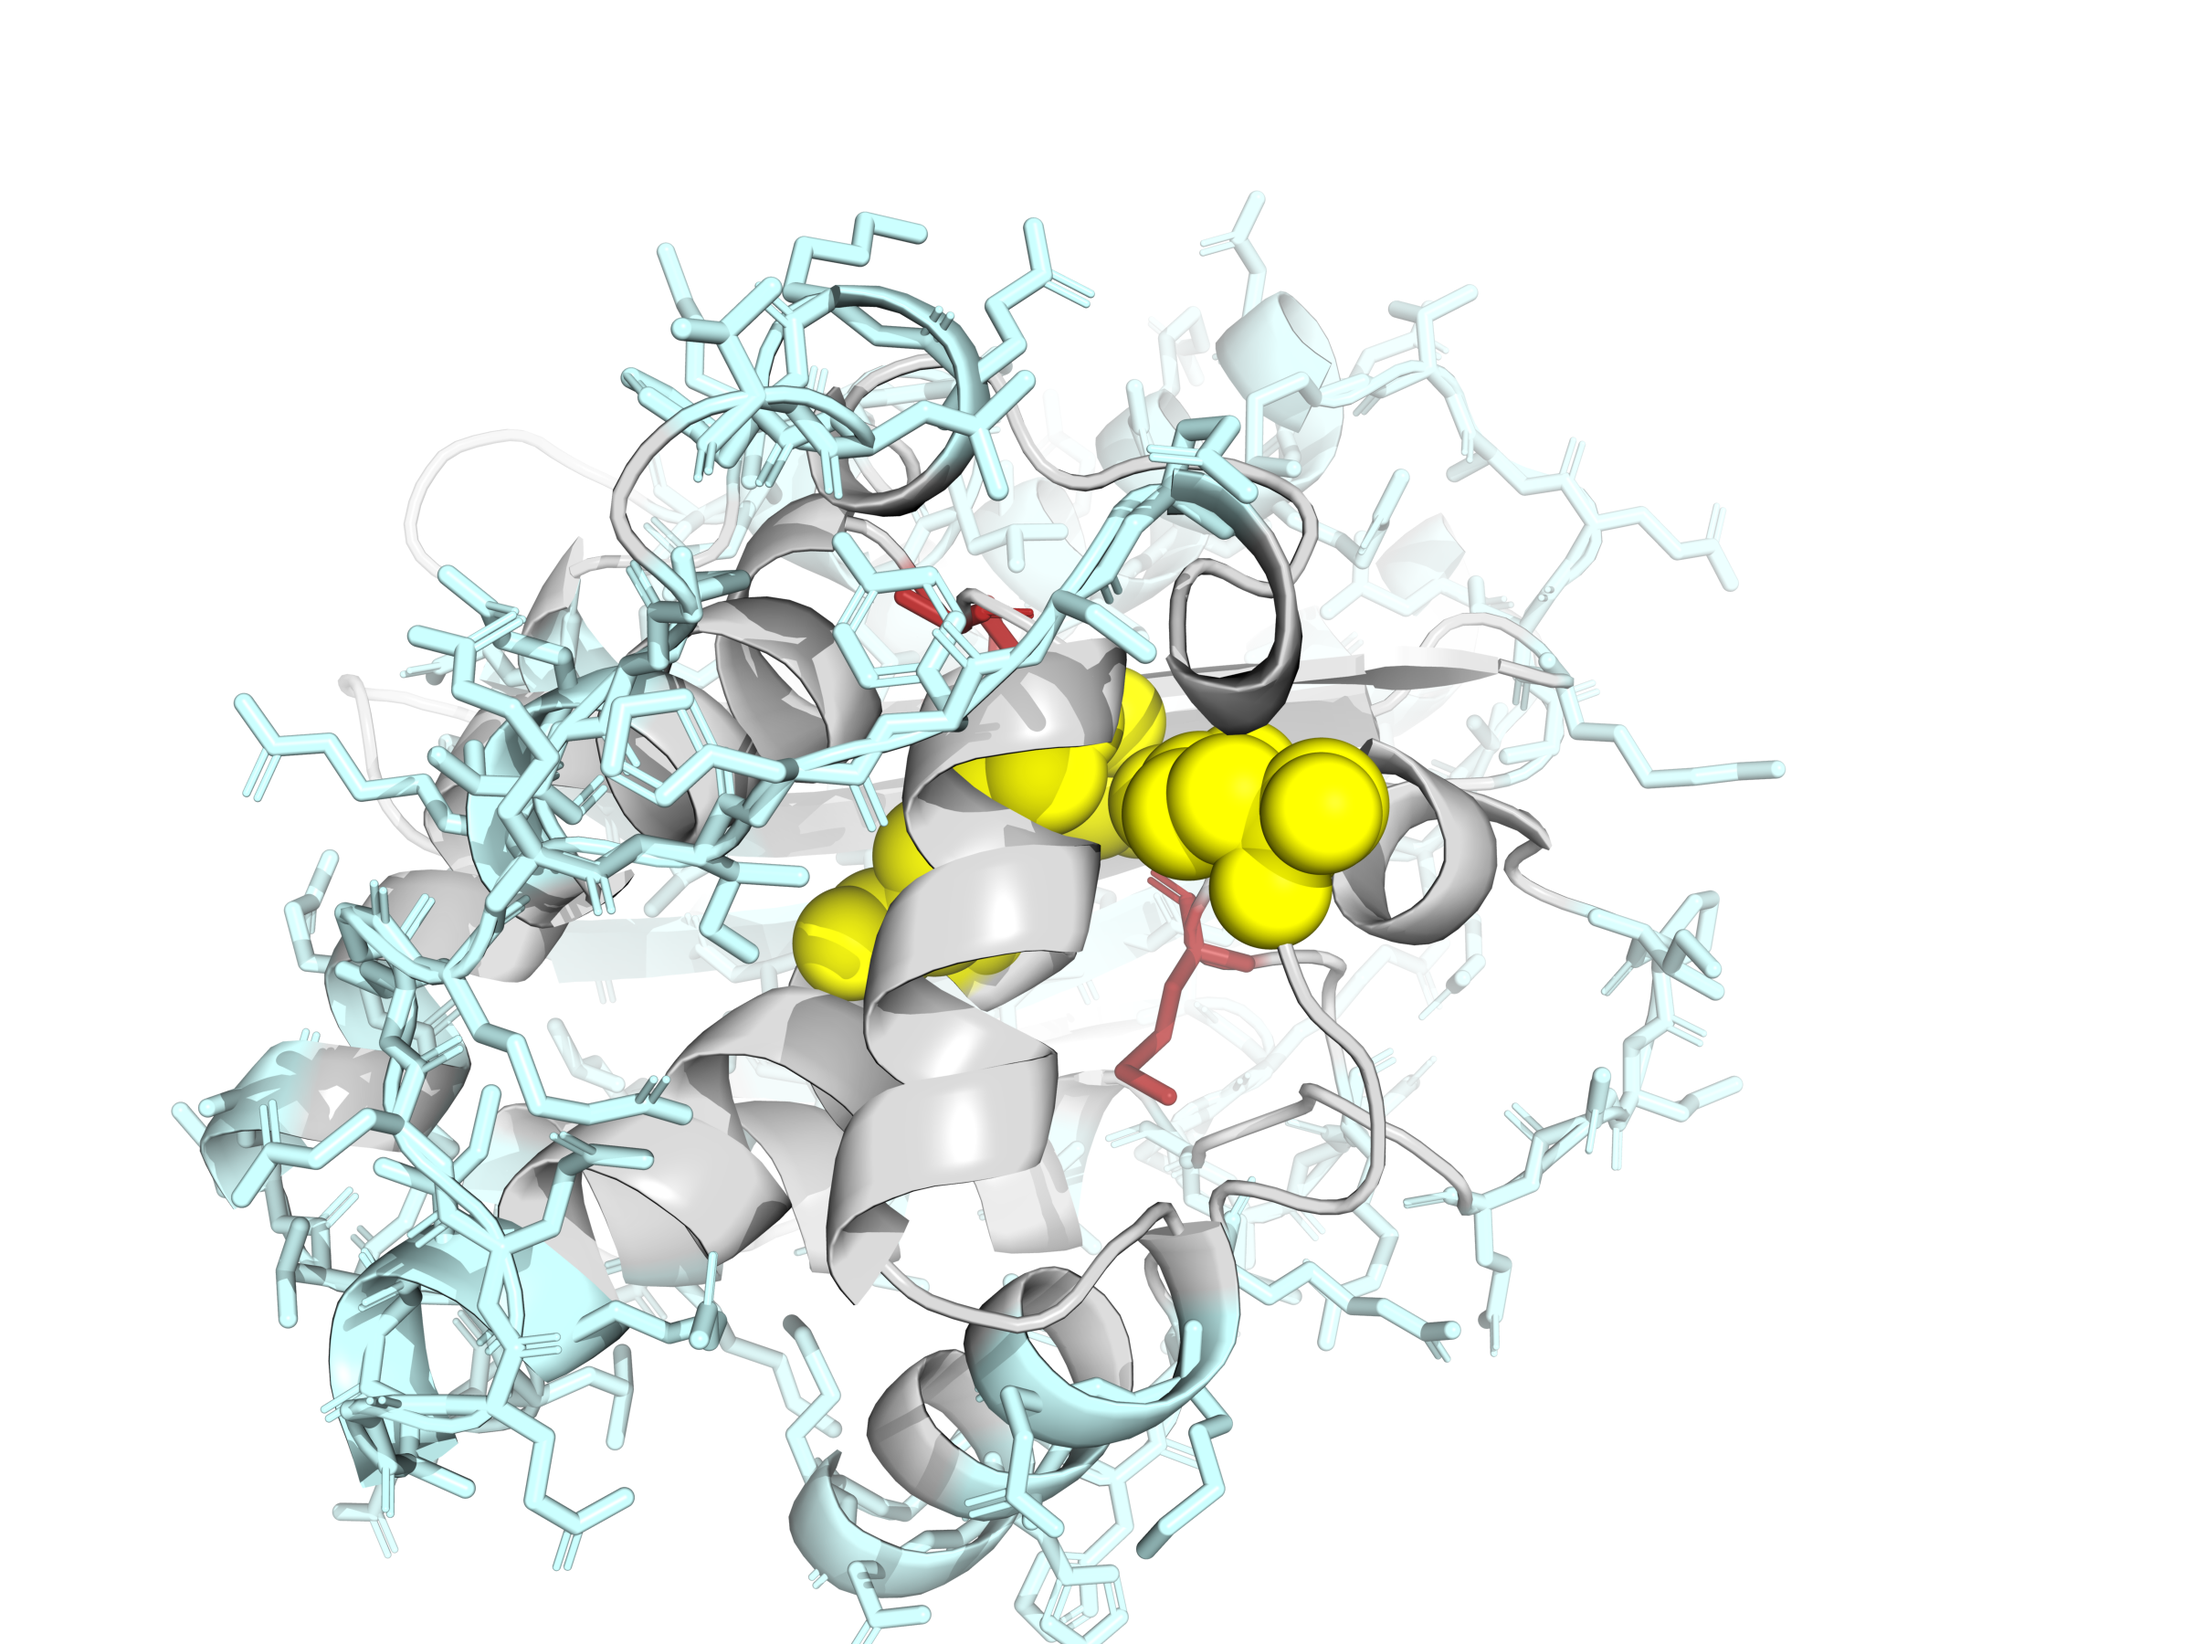
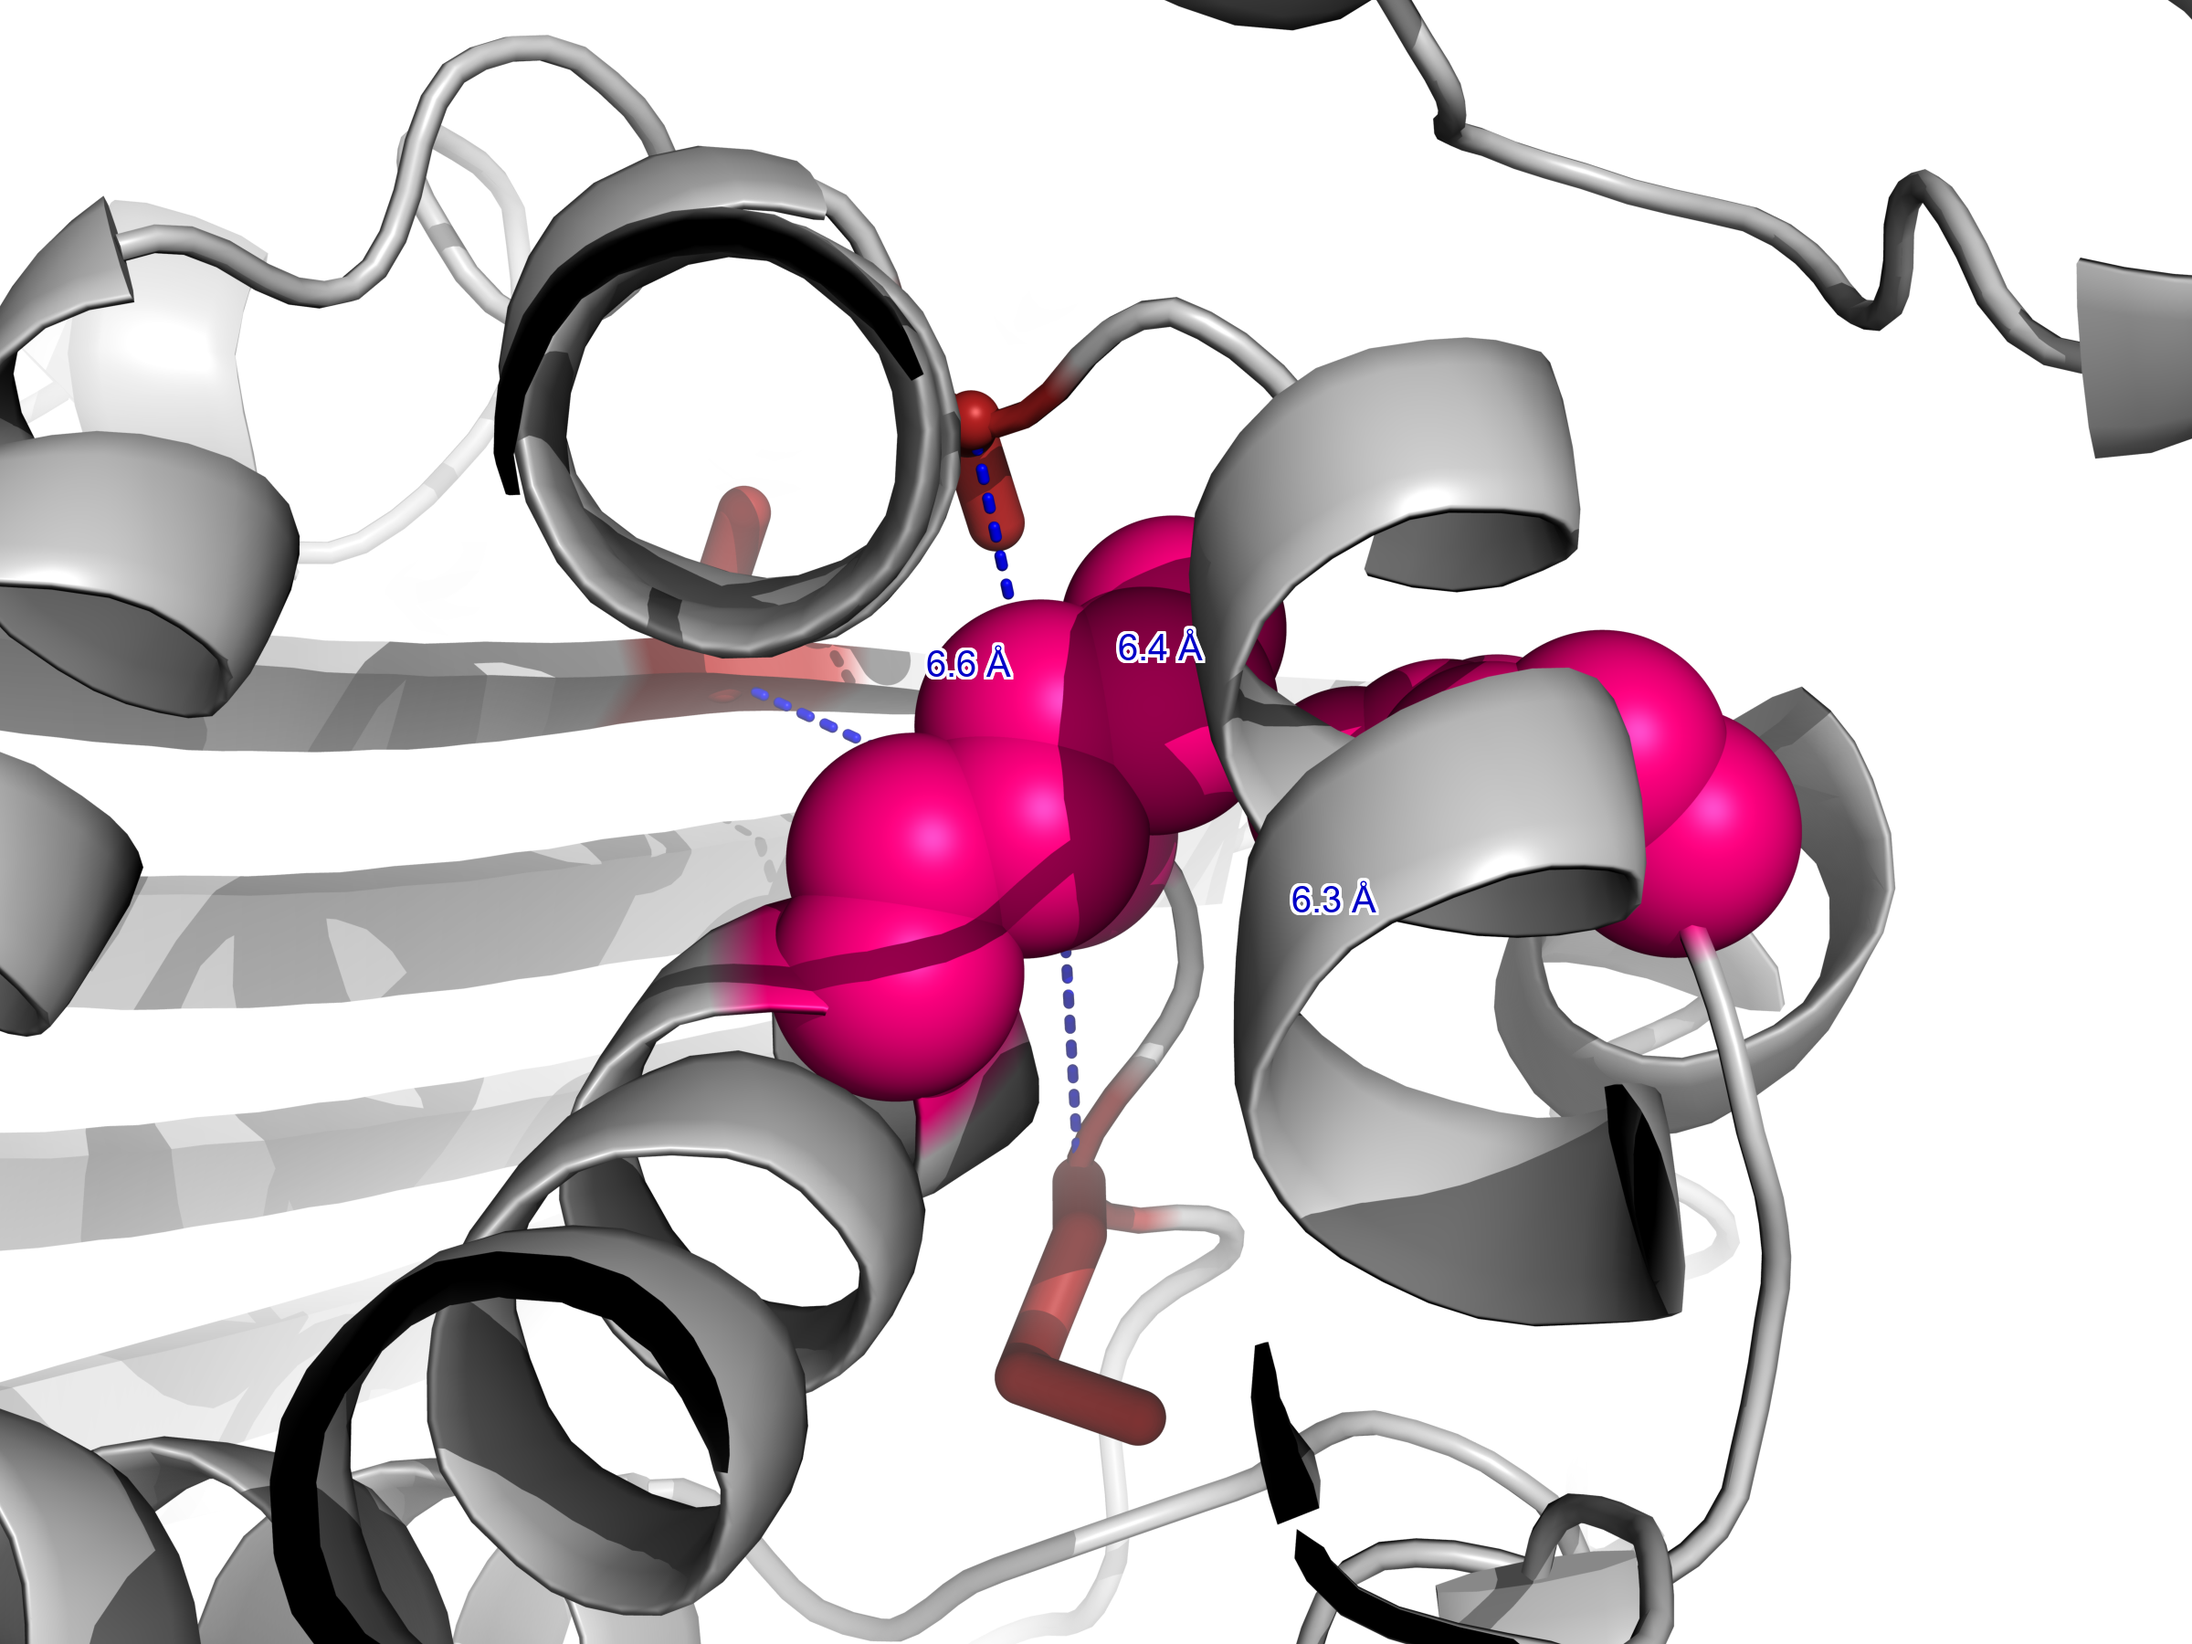
figures still not rendered correctly, will fix later

diff --git a/scripts/render_structure.py b/scripts/render_structure.py
@@ -1,5 +1,8 @@
+# scripts/render_structure.py
 import os
 import sys
+import numpy as np
+from PIL import Image, ImageDraw, ImageFont
 
 try:
     import pymol
@@ -9,68 +12,152 @@ except ImportError:
     sys.exit(1)
 
 
-def render_pymol_figure():
-    print("[*] Initializing PyMOL rendering pipeline...")
+def get_screen_coords(model_coord, img_width=2400, img_height=1800):
+    """Map 3D world coordinate to 2D image pixel space (X, Y) using PyMOL view matrices."""
+    view = cmd.get_view()
+    rot = np.array(view[0:9]).reshape((3, 3))
+    pos = np.array(view[9:12])
+    origin = np.array(view[12:15])
 
-    # Start PyMOL in headless mode (-c means command-line/no GUI window)
+    # Transform 3D coordinate through camera projection
+    pt = model_coord - origin
+    pt_cam = np.dot(rot, pt) + pos
+
+    # Scale camera matrix field of view to pixel dimension
+    fov = cmd.get("field_of_view")
+    fov_rad = np.radians(float(fov) if fov is not None else 25.0)
+    scale = (img_height / 2.0) / np.tan(fov_rad / 2.0)
+
+    px = (img_width / 2.0) + (pt_cam[0] * scale / abs(pt_cam[2]))
+    py = (img_height / 2.0) - (pt_cam[1] * scale / abs(pt_cam[2]))
+    return float(px), float(py)
+
+
+def add_post_render_label(image_path, text, pixel_pos):
+    """Draws text with a clean white outline centered directly on the target coordinate."""
+    img = Image.open(image_path).convert("RGBA")
+    draw = ImageDraw.Draw(img)
+
+    try:
+        font = ImageFont.truetype("arial.ttf", 40)
+    except IOError:
+        font = ImageFont.load_default()
+
+    x, y = pixel_pos
+
+    # Get bounding box to center text exactly on the midpoint
+    bbox = draw.textbbox((0, 0), text, font=font)
+    text_width = bbox[2] - bbox[0]
+    text_height = bbox[3] - bbox[1]
+
+    # Center text box directly on (x, y) so it sits right on the dashed line
+    draw_x = x - (text_width / 2.0)
+    draw_y = y - (text_height / 2.0)
+
+    # Draw white text outline (stroke) for high visibility against the protein ribbon
+    stroke_w = 3
+    for dx in range(-stroke_w, stroke_w + 1):
+        for dy in range(-stroke_w, stroke_w + 1):
+            if dx != 0 or dy != 0:
+                draw.text((draw_x + dx, draw_y + dy), text, font=font, fill=(255, 255, 255, 255))
+
+    # Draw primary dark blue text layer on top
+    draw.text((draw_x, draw_y), text, font=font, fill=(0, 0, 200, 255))
+
+    img.save(image_path)
+
+
+def render_pymol_figure():
+    print("[*] Generating final publication-grade PyMOL render...")
+
     pymol.finish_launching(['pymol', '-c'])
 
     clean_pdb_path = os.path.join("data", "1ZG4_clean.pdb")
-    if not os.path.exists(clean_pdb_path):
-        raise FileNotFoundError(f"[X] Clean PDB not found at {clean_pdb_path}. Run preprocessing first!")
-
     eval_dir = os.path.join("data", "eval")
     os.makedirs(eval_dir, exist_ok=True)
     output_image_path = os.path.join(eval_dir, "pymol_allosteric_pathways.png")
 
-    print(f"[*] Loading structure from {clean_pdb_path}...")
     pymol.cmd.reinitialize()
     pymol.cmd.load(clean_pdb_path, "tem1")
+    obj = "tem1"
 
-    # General Aesthetics & Lighting Configuration
+    # Set exact viewport resolution to match ray-tracing dimensions for precise projection mapping
+    width, height = 2400, 1800
+    pymol.cmd.viewport(width, height)
+
+    # Set background and rendering settings
     pymol.cmd.bg_color("white")
     pymol.cmd.set("ray_shadows", "1")
     pymol.cmd.set("antialias", "3")
-    pymol.cmd.set("specular", "0.2")
-    pymol.cmd.set("direct", "0.8")
+    pymol.cmd.set("specular", "0.3")
+    pymol.cmd.set("cartoon_side_chain_helper", 1)
 
-    # Hide default representations and set base cartoon style
-    pymol.cmd.hide("everything", "tem1")
-    pymol.cmd.show("cartoon", "tem1")
-    pymol.cmd.color("white", "tem1")
+    # Base styling: Light gray cartoon ribbon
+    pymol.cmd.hide("everything", obj)
+    pymol.cmd.show("cartoon", obj)
+    pymol.cmd.color("gray80", obj)
 
-    # 1. Highlight Active Site (Serine 70 active-site cluster in TEM-1)
-    pymol.cmd.select("active_site", "tem1 and resi 70+73+166")
+    # 1. Active Site Cluster (Serine 70 triad) -> Spheres
+    pymol.cmd.select("active_site", f"{obj} and resi 70+73+166")
     pymol.cmd.show("spheres", "active_site")
-    pymol.cmd.color("yellow", "active_site")
+    pymol.cmd.color("hotpink", "active_site")
 
-    # 2. Highlight High-Centrality Allosteric Bottlenecks (identified residues 68, 130, 235)
-    pymol.cmd.select("bottlenecks", "tem1 and resi 68+130+235")
+    # 2. Allosteric Communication Bottlenecks -> Distinct Firebrick Sticks
+    bottleneck_list = [68, 130, 235]
+    bottleneck_str = "+".join(map(str, bottleneck_list))
+    pymol.cmd.select("bottlenecks", f"{obj} and resi {bottleneck_str}")
     pymol.cmd.show("sticks", "bottlenecks")
     pymol.cmd.color("firebrick", "bottlenecks")
+    pymol.cmd.set("stick_radius", "0.4", "bottlenecks")
 
-    # 3. Define and Highlight the 15-20 Å Allosteric Boundary Shell relative to Active Site
-    pymol.cmd.select(
-        "boundary_shell",
-        "tem1 and not active_site and not bottlenecks and (byres (tem1 within 20 of active_site) and not (tem1 within 15 of active_site))"
-    )
-    pymol.cmd.show("sticks", "boundary_shell")
-    pymol.cmd.color("palecyan", "boundary_shell")
+    # 3. Tight Framing: Center and orient view FIRST so view matrices are finalized
+    pymol.cmd.select("functional_core", "active_site or bottlenecks")
+    pymol.cmd.center("functional_core")
+    pymol.cmd.zoom("functional_core", "3")
+    pymol.cmd.turn("y", 35)
+    pymol.cmd.turn("x", -15)
 
-    # 4. Background structural context styling for remainder of protein
-    pymol.cmd.color("gray85", "tem1 and not active_site and not bottlenecks and not boundary_shell")
+    # 4. Multiple Dark Blue Dashed Distance Lines (Collecting midpoints after framing)
+    pymol.cmd.select("active_anchor", f"{obj} and resi 70 and name CA")
 
-    # Final Camera Framing & Ray Tracing
-    pymol.cmd.center("active_site")
-    pymol.cmd.zoom("active_site", "15")
+    distance_data = []
+    for resi in bottleneck_list:
+        bt_sel_name = f"bt_{resi}"
+        dist_name = f"dist_res_{resi}"
 
-    print("[*] Rendering high-resolution ray-traced image (this may take a few seconds)...")
-    pymol.cmd.ray(2400, 1800)
-    pymol.cmd.png(output_image_path, dpi=300)
+        pymol.cmd.select(bt_sel_name, f"{obj} and resi {resi} and name CA")
+        pymol.cmd.distance(dist_name, bt_sel_name, "active_anchor")
 
-    print(f"[+] PyMOL rendering complete! High-res figure saved to {output_image_path}")
+        # Hide native PyMOL labels since we use post-render PIL overlay
+        pymol.cmd.hide("labels", dist_name)
+        pymol.cmd.color("blue", dist_name)
+        pymol.cmd.set("dash_as_cylinders", 0, dist_name)
+        pymol.cmd.set("dash_width", 4.0, dist_name)
+        pymol.cmd.set("dash_gap", 0.30, dist_name)
+        pymol.cmd.set("dash_radius", 0.08, dist_name)
 
-    # Safely close PyMOL session
+        # Extract 3D coordinates to calculate midpoint for the label overlay
+        model_bt = pymol.cmd.get_model(bt_sel_name)
+        model_ac = pymol.cmd.get_model("active_anchor")
+        if model_bt.atom and model_ac.atom:
+            c1 = np.array(model_bt.atom[0].coord)
+            c2 = np.array(model_ac.atom[0].coord)
+            dist_val = np.linalg.norm(c1 - c2)
+            midpoint = (c1 + c2) / 2.0
+            distance_data.append((dist_val, midpoint))
+
+    print("[*] Ray-tracing final figure...")
+    pymol.cmd.ray(width, height)
+    pymol.cmd.png(output_image_path, dpi=300, ray=1)
+
+    # 5. Post-process image to overlay crisp distance text with white outlines at exact screen positions
+    print("[*] Applying post-render distance labels...")
+    for dist_val, midpoint in distance_data:
+        screen_x, screen_y = get_screen_coords(midpoint, width, height)
+        label_text = f"{dist_val:.1f} Å"
+        add_post_render_label(output_image_path, label_text, (screen_x, screen_y))
+
+    print(f"[+] Saved final figure to {output_image_path}")
     pymol.cmd.quit()
 
 
